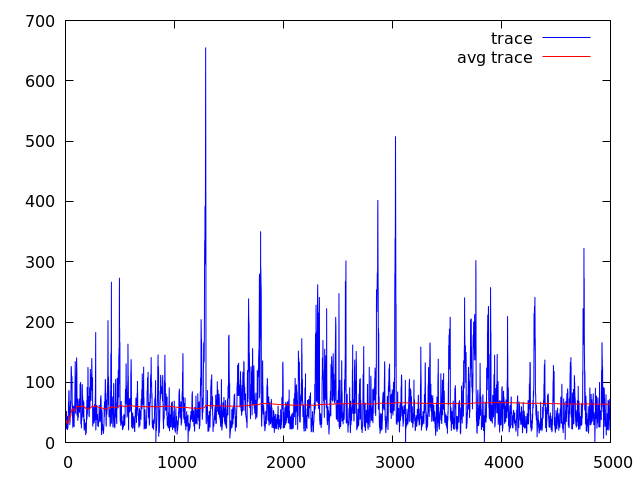
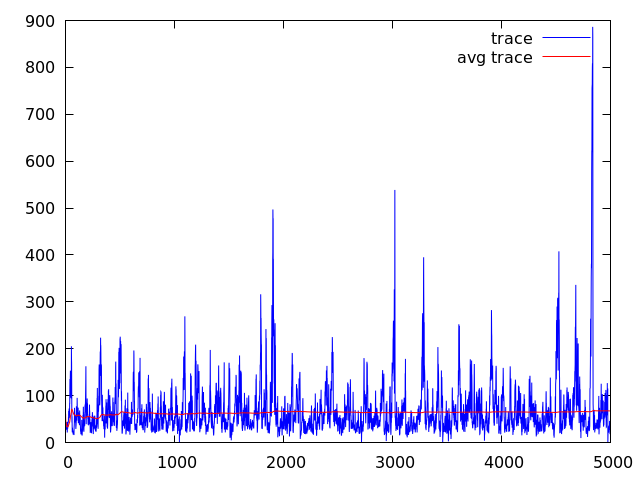
WIP.

diff --git a/lorenz-problems/sixty-three/src/main.rs b/lorenz-problems/sixty-three/src/main.rs
@@ -57,7 +57,8 @@ fn main() {
 
   let x = normal.ind_sample(&mut rand);
   let x = x..(x + STEPS as f64 * TAU);
-  let y: Array<f64, Ix1> = Array::random_using(3, normal, &mut rand);
+  //let y: Array<f64, Ix1> = Array::random_using(3, normal, &mut rand);
+  let y = arr1(&[1.0, 1.0, 1.0]);
   let yp = Array::zeros(3);
   let thresh = arr1(&(THRESH)[..]);
   let data = generate_model_truth_and_observation(lorenz63,
